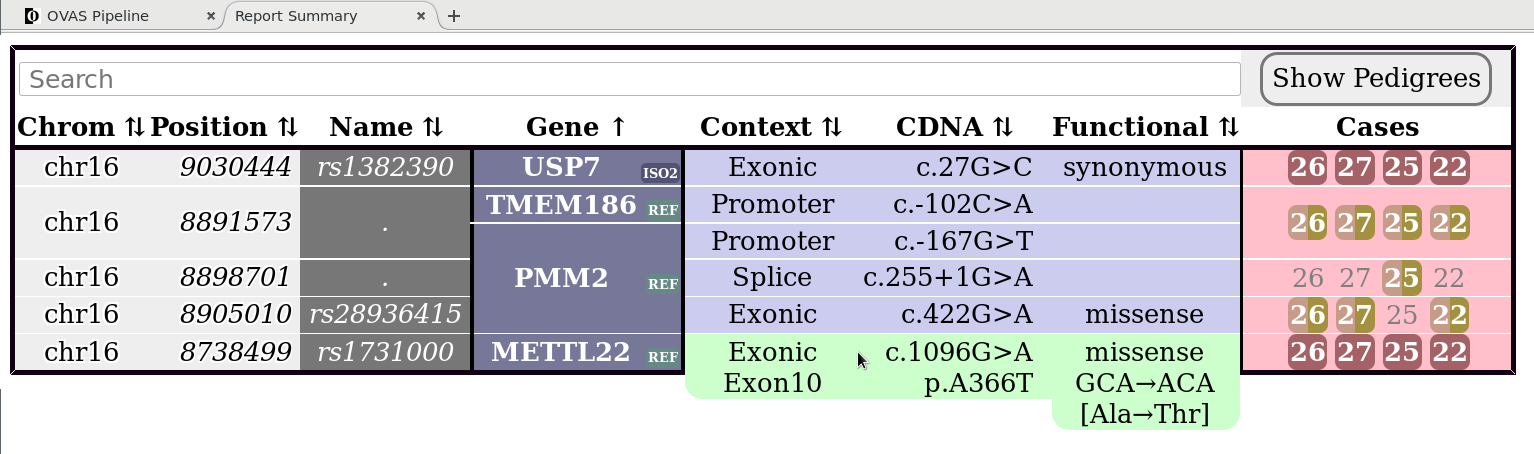
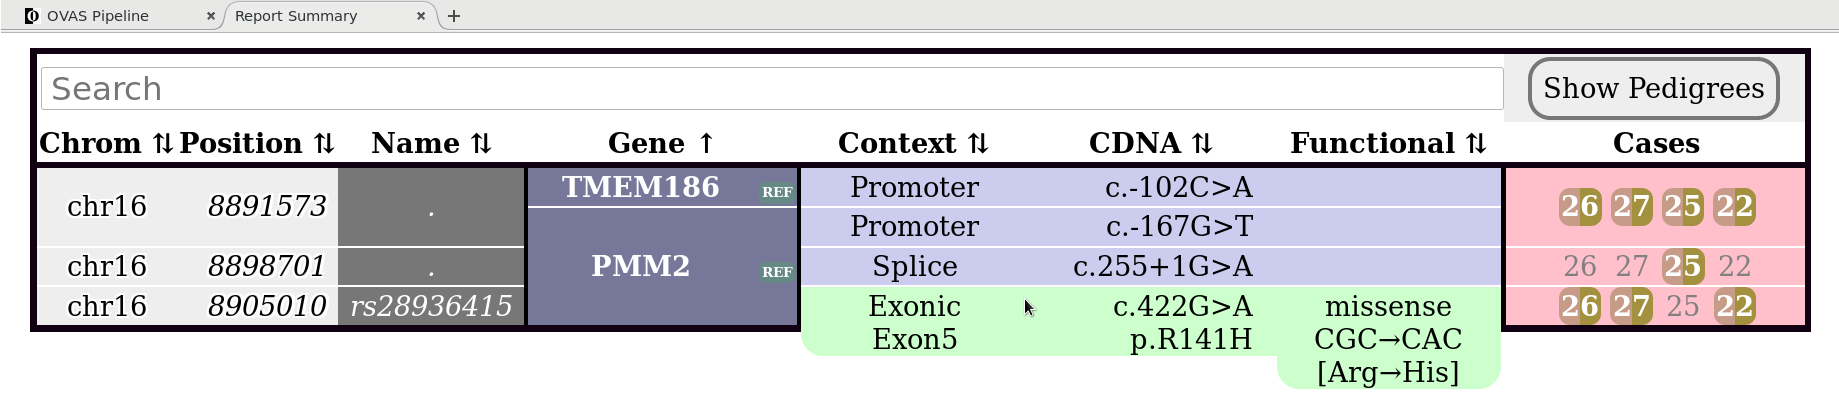
without synonymous and homozygous

diff --git a/bmc_bioinformatics/bmc_article.tex b/bmc_bioinformatics/bmc_article.tex
@@ -417,7 +417,7 @@ The last stage of pipeline constitutes a small subset of variants which have suc
 
 Three families presented with hyperinsulinemic hypoglycemia and congenital polycystic kidney disease (HIPKD), a rare newly discovered disorder following an autosomal recessive disease pattern. Exome-capture sequencing and whole-genome linkage analysis revealed a promoter mutation within a significant locus on chromosome 16 \cite{cabezas2017polycystic}.
 
-Throughout the course of the analysis 4 case VCFs were processed, 2 of which were siblings permitting the use of variant-level filtering. Pedigree overviews as well as runtime settings conforming to those in the supplemental material of the preceding paper are displayed in the analysis interface (Figure~\ref{fig:fig2}). 
+Throughout the course of the analysis 4 case VCFs were processed, 2 of which were siblings permitting the use of variant-level filtering. Pedigree overviews as well as runtime settings conforming to those in the supplemental material of the preceding paper are displayed in the analysis interface (Figure~\ref{fig2}).
 
 %Of the 9 input VCF files, 4 were affected cases of which 2 were siblings. The remaining VCFs were controls consisting of 4 (2 pairs) of unaffected parents and 1 was unaffected sibling, permitting the use of variant-level filtering.
 
@@ -429,7 +429,9 @@ The prior linkage analysis \cite{cabezas2017polycystic} hinted at a small region
 
 The \textit{Core Annotation} stage accounted for the vast majority ($ > 80\% $) of the exome-sequenced variants being filtered out in both scenarios, intersecting variants against the gene map (declared previously) in order to remove those that were entirely intergenic or (non-regulatory) intronic. This resulted in approximately 34,700 annotated variants ready for the subsequent filtering modules.
 
-The subsequent application of the the \textit{Physical Linkage Filter} reduced the number of variants to less than 25 in each case file (Figure~\ref{fig4}). The \textit{Call Quality Filter} with a threshold of $>20$ was applied in accordance to the filtering criterion in the original study, resulting in a 25.7\% reduction. The rarity of the phenotype prompted a search for variants not very prevalent in the population, thus the \textit{Alternate Allele Frequency Filter}(AAF) was applied with a threshold of $< 1\%$, leaving no more than 10 variants in each case file. The \textit{Autosomal Recessive Inheritance Filter} (AR) then performed identical variant level matching between the two affected siblings, followed compound-heterozygous checking upon all files to produce an overlapping AR gene list. Truncating under this resulted in just 4 variants in each file, 5 unique in total and 3 displaying a characteristic AR pattern in PMM2; c.-167G>T hetorozygous promoter variant in all, c.422 missense in three of the cases, and splice site mutation present in one case, successfully outlining the compound heterozygous motif (Figure~\ref{fig3}). 
+The subsequent application of the the \textit{Physical Linkage Filter} reduced the number of variants to less than 25 in each case file (Figure~\ref{fig4}). The \textit{Call Quality Filter} with a threshold of $>20$ was applied in accordance to the filtering criterion in the original study, resulting in a 25.7\% reduction. The rarity of the phenotype prompted a search for variants not very prevalent in the population, thus the \textit{Alternate Allele Frequency Filter}(AAF) was applied with a threshold of $< 1\%$, leaving no more than 10 variants in each case file. The \textit{Autosomal Recessive Inheritance Filter} (AR) then performed identical variant level matching between the two affected siblings, screened against homozygous mutations, and followed compound-heterozygous checking upon all files to produce an overlapping AR gene list. 
+
+Truncating under this provided just 4 variants in each file (5 unique in total), and applying the final \textit{Mutation Type Filter} to remove any synonymous mutations resulted in just 2 variants in each file (3 unique in total) that successfully produced a characteristic compound-heterozygous AR inheritance pattern in \textit{PMM2}; \textit{c.-167G}$>$\textit{T} promoter variant in all, \textit{c.422G}$>$\textit{A} missense mutation in three of the cases, and a \textit{c.255+1G}$>$\textit{A} splice site mutation present in one case (Figure~\ref{fig3}).
 
 %The second scenario (Figure~\ref{fig4} (bottom)) performed the annotation as with the first scenario, but this time only reduced an average of 15.9\% of variants in the \textit{Call Quality Filter} step to approximately 37,000 variants. The \textit{Alternate Allele Frequency Filter} reduced this to under 21,000 rare variants, and the \textit{Autosomal Recessive Inheritance Filter} further trimmed this to approximately 10,000 variants, whereupon applying the final \textit{Physical Linkage Filter}, outlined less than 9 output variants in each case.
 
@@ -456,6 +458,9 @@ The case analysis completed its run in 10.2 minutes, with subsequent re-runs upo
 It is not without doubt that the order of filtering modules is important to the analysis, with the \textit{Physical Location Filter} decreasing the runtime of subsequent modules. However this decrease is sub-linear in complexity as shown in Table~\ref{table:results}, which displays average individual timings for each module against moderately populated VCF files, showing that runtimes are comparable with the case analysis with the exception of the AAF module.
 
 The AAF module created an noticeable lag of an average of 7.27 seconds per file in our study. This is owing to the module being subject to some delay in loading pre-computed dbSNP allele frequencies into memory, and due to memory and processing constraints, it must incur this cost for each new chromosome encountered which can create considerable latency in the earlier (larger) chromosomes. The analysis escaped this penalty somewhat by only having to load a single relatively small chromosome into memory.
+
+
+
 
 %The second scenario produced the almost the exact same output variants as the first scenario with the exception of case 22 which produced one extra variant in the analysis, despite using the exact same filters as the first with a single ordering modification. The cause of the discrepancy between these results is due to the method in which the \textit{Autosomal Recessive Inheritance Filter} processes compound-heterozygosity, whereby the module casts a conservative net over all genes that are intersected at least twice by variants. Given the number of overlapping regions (gene, gene isoforms, promoters, UTRs, and Splice Sites) that can be bisected by any variant, the number of potential compound-heterozygous genes can increase substantially with the pool of available variants.
 
